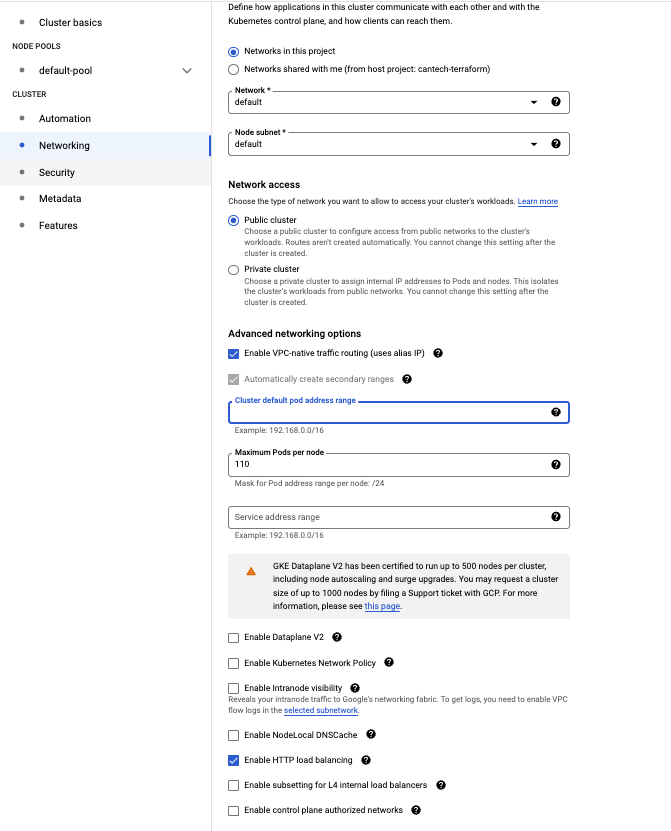
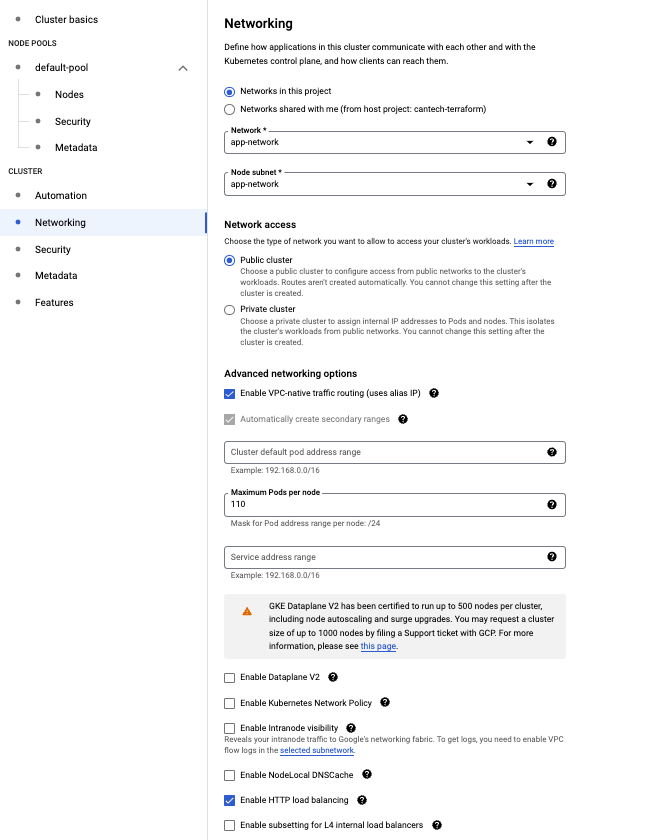
doc: update gke documentation

diff --git a/README.md b/README.md
@@ -14,9 +14,17 @@ I have created a new subnet under the `default` VPC with the following configura
 
 ### GKE Cluster
 
-I've created a GKE cluster called `cluster-1` in `us-central1-c` zone. The following images shows the configuration details. I have selected the `GKE Standard` option and I set the default settings everywhere.
+I've created a GKE cluster called `cluster-1` in `us-central1-c` zone. The following images shows the configuration details. I have selected the `GKE Standard` option and I set the default settings everywhere except the on the Networking tab. I have selected the `app-network` which was created using the terraform resources. See [terraform/README.md](terraform/README.md)
 
 The size of the cluster is currently 1 VM with `e2-medium` machine type.
+
+#### Node-pool
+
+![gke0.png](.readme/gke0.png)
+
+#### Node pool security configuration
+
+![gke6.png](.readme/gke6.png)
 
 #### Cluster basics
 

diff --git a/terraform/README.md b/terraform/README.md
@@ -18,8 +18,8 @@ The `provider.tf` file contains the `google-provider` configurations to be able 
 
 ### `redis.tf`
 
-The `redis.tf` file contains the configuration of the Memorystore instance.
+The `redis.tf` file contains the configuration of the Memorystore instance. This resource will create a Redis instance with name `cache-1`, version `6.x`, read replica count `1`, and the size of `5 GB`.
 
 ### `vpc.tf`
 
-The `vpc.tf` file contains the dedicated VPC network definition.
+The `vpc.tf` file contains the dedicated VPC network definition. It creates the VPC network called `app-network` .
